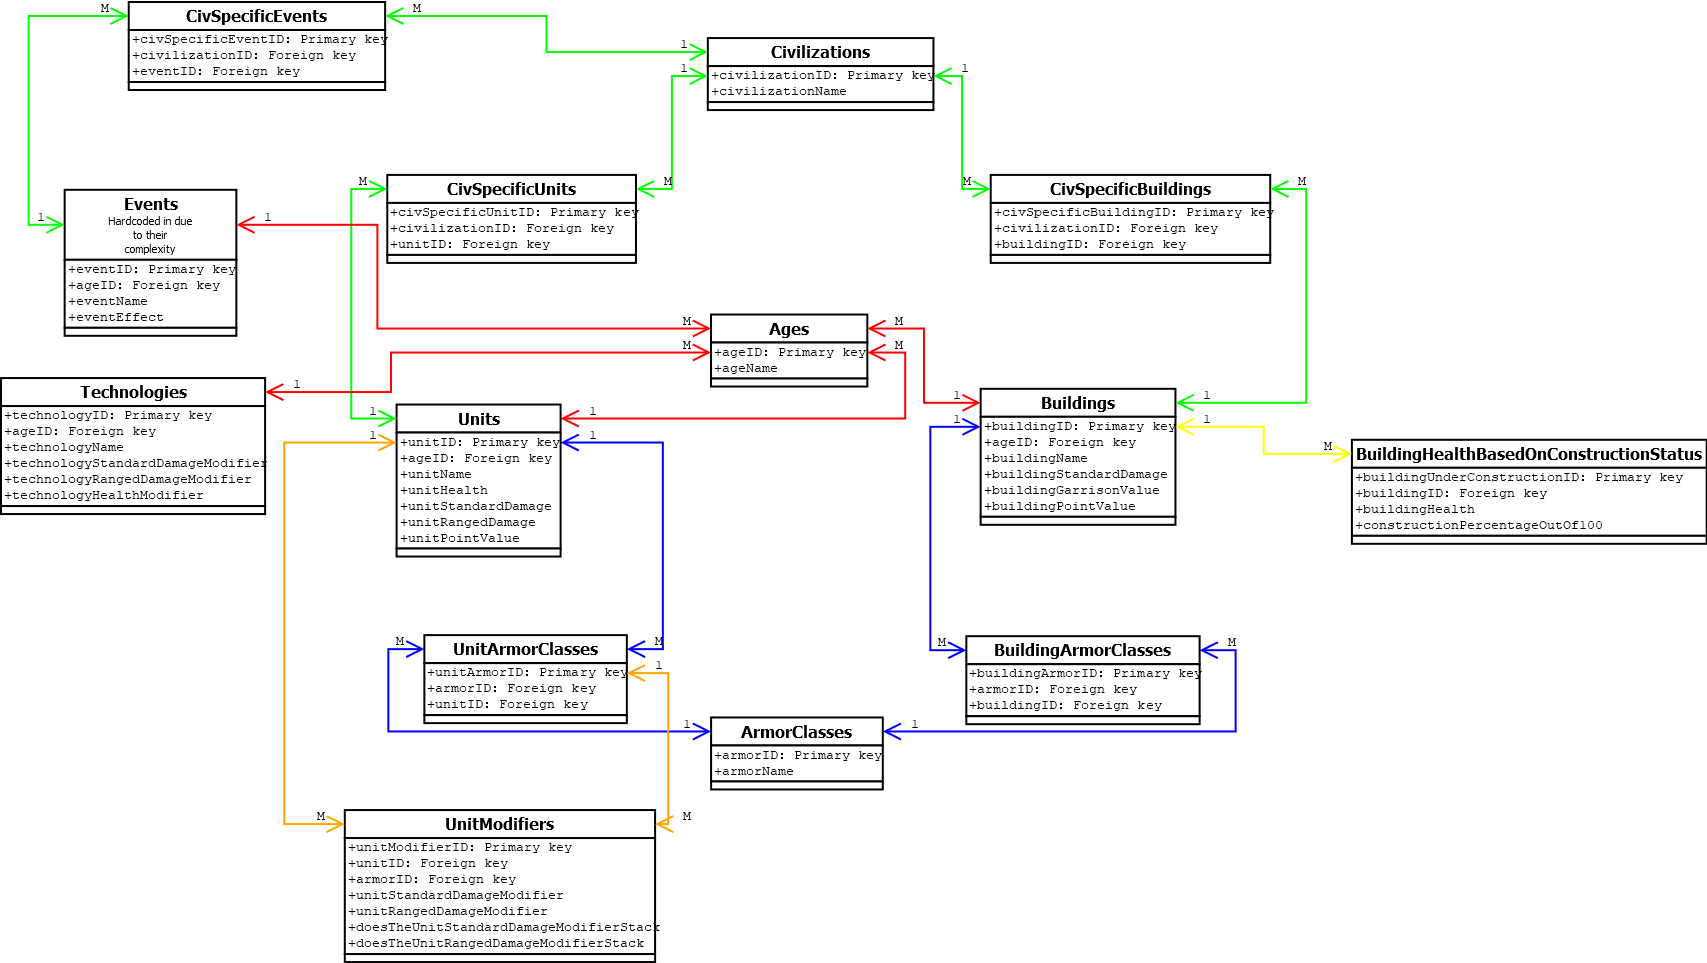
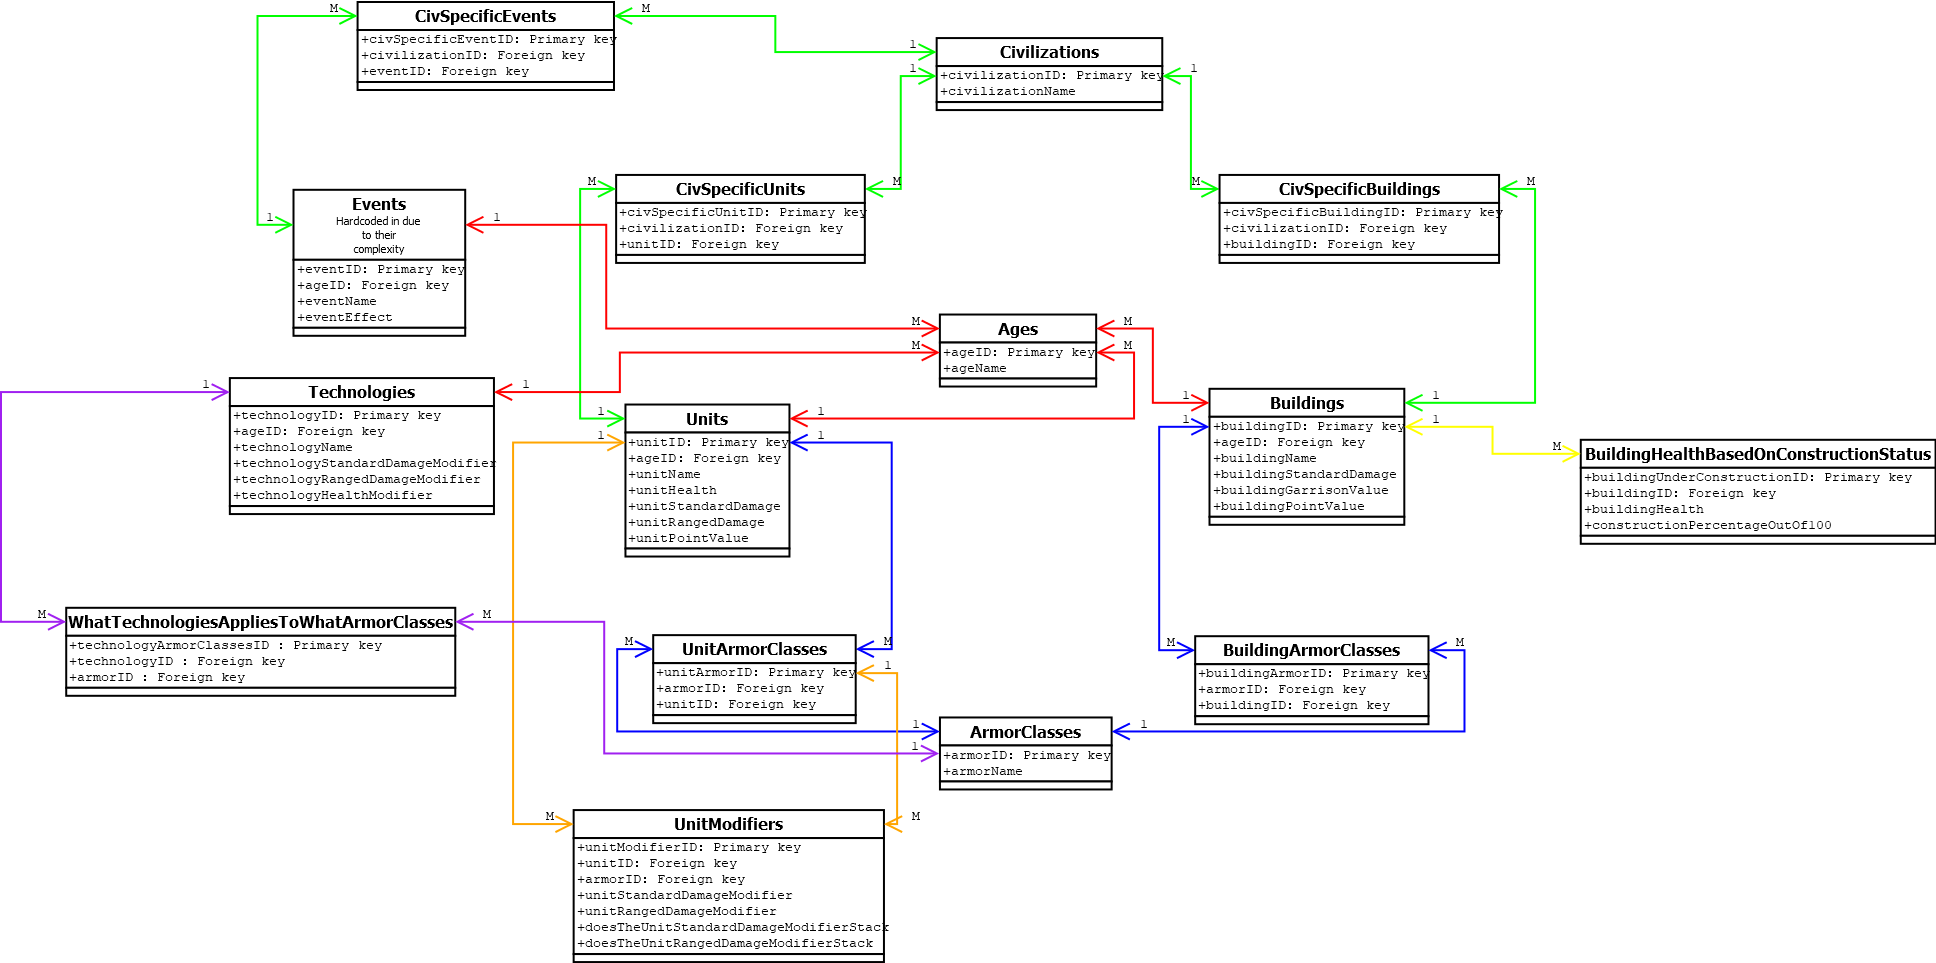
added what we should need to read in the technologies from the db instead of having them hardcoded in

diff --git a/AoE2_Calculator-master/database.cpp b/AoE2_Calculator-master/database.cpp
@@ -411,7 +411,6 @@ Entity Database::getUnitModifiers(
   entityToApplyModifiersToName
     = MainWindow::convertUnderscoresToSpaces(entityToApplyModifiersToName);
   const QString armorClasses{fetchArmorClasses(entityToCheckArmorClassesOf)};
-  qDebug() << "armorClasses:" << armorClasses;
 
   const QString queryText{QString{R"(
 SELECT
@@ -425,7 +424,7 @@ FROM
 WHERE u.unitID = um.unitID AND u.unitName = '%1' AND um.armorID IN %2;)"}
                             .arg(entityToApplyModifiersToName, armorClasses)};
   QSqlQuery     query{queryText};
-  qDebug().noquote() << "query:" << queryText;
+  // qDebug().noquote() << "query:" << queryText;
 
   const int unitStandardDamageModifierIndex{
     query.record().indexOf("unitStandardDamageModifier")};
@@ -435,10 +434,6 @@ WHERE u.unitID = um.unitID AND u.unitName = '%1' AND um.armorID IN %2;)"}
   const int doesRangedStackIndex{query.record().indexOf("r.stacks")};
 
   while (query.next()) {
-    // If it's found and > 0, return the entityToApplyModifiersTo with the
-    // values returned If it's not found or < 0, do not replace the values of
-    // entityToApplyModifiersTo with that
-
     const int unitStandardDamage{
       query.value(unitStandardDamageModifierIndex).toInt()};
     const int unitRangedDamage{
@@ -466,26 +461,74 @@ WHERE u.unitID = um.unitID AND u.unitName = '%1' AND um.armorID IN %2;)"}
   return entityToApplyModifiersTo;
 }
 
-Entity Database::applyTechnologyEffects(Entity entity)
+
+
+static QString fetchTechnologyIDs(int * inputTechnologies)
 {
-  const QString entityName = MainWindow::convertUnderscoresToSpaces(
-    QString::fromStdString(entity.entityName));
-  /*
-    const QString queryText{QString{R"(
-  SELECT
-    u.unitName,
-    um.unitStandardDamageModifier,
-    um.unitRangedDamageModifier,
-    um.doesTheUnitStandardDamageModifierStack AS "s.stacks",
-    um.doesTheUnitRangedDamageModifierStack AS "r.stacks"
-  FROM
-      Units u, UnitModifiers um
-  WHERE u.unitID = um.unitID AND u.unitName = '%1' AND um.armorID IN %2;)"}
-                              .arg(entityToApplyModifiersToName, armorClasses)};
-  QSqlQuery query{queryText};
-*/
-  return entity;
+  QString     technologies{};
+  QTextStream stream{&technologies};
+  stream << '(';
+  bool hasOutputBefore{false};
+
+  for (int i{0}; i < 18 /* num. of technology rows */; ++i) {
+    if (inputTechnologies[i]) {
+      if (hasOutputBefore) {
+        stream << ", '" << (i + 1) << '\'';
+      }
+      else {
+        stream << '\'' << (i + 1) << '\'';
+      }
+
+      hasOutputBefore = true;
+    }
+  }
+
+  stream << ')';
+  return technologies;
 }
+
 
 // Todo: Work out how modifiers might work for technologies
 // Should be similar to what we did for the units
+Entity Database::applyTechnologyEffects(Entity entityToApplyModifiersTo, int * playerTechnologies)
+{
+  const QString technologyIDs{fetchTechnologyIDs(playerTechnologies)};
+
+  const QString armorClasses{fetchArmorClasses(entityToApplyModifiersTo)};
+
+    const QString queryText{QString{R"(
+  SELECT
+    t.technologyStandardDamageModifier,
+    t.technologyRangedDamageModifier,
+    t.technologyHealthModifier
+  FROM
+      Technologies t, WhatTechnologiesAppliesToWhatArmorClasses wtatwac
+  WHERE t.technologyID = wtatwac.technologyID AND t.technologyID IN %1 AND wtatwac.armorID IN %2;)"}
+                              .arg(technologyIDs, armorClasses)};
+
+
+  QSqlQuery query{queryText};
+
+    const int technologyStandardDamageModifierIndex{
+                                              query.record().indexOf("technologyStandardDamageModifier")};
+    const int technologyRangedDamageModifierIndex{
+                                            query.record().indexOf("technologyRangedDamageModifier")};
+    const int technologyHealthModifierIndex{query.record().indexOf("technologyHealthModifier")};
+
+    while (query.next()) {
+    const int technologyStandardDamageModifier{
+                                 query.value(technologyStandardDamageModifierIndex).toInt()};
+    const int technologyRangedDamageModifier{
+                               query.value(technologyRangedDamageModifierIndex).toInt()};
+    const int technologyHealthModifier{
+                                 query.value(technologyHealthModifierIndex).toInt()};
+
+    entityToApplyModifiersTo.standardDamage += technologyStandardDamageModifier;
+    entityToApplyModifiersTo.rangedDamage += technologyRangedDamageModifier;
+    entityToApplyModifiersTo.rangedDamage += technologyHealthModifier;
+
+    }
+
+  return entityToApplyModifiersTo;
+}
+

diff --git a/AoE2_Calculator-master/database.hpp b/AoE2_Calculator-master/database.hpp
@@ -33,7 +33,7 @@ public:
     Entity entityToApplyModifiersTo,
     Entity entityToCheckArmorClassesOf);
 
-  Entity applyTechnologyEffects(Entity entity);
+  Entity applyTechnologyEffects(Entity entity, int * playerTechnologies);
 
 private:
   QSqlDatabase m_database;

diff --git a/AoE2_Calculator-master/backend/entity.h b/AoE2_Calculator-master/backend/entity.h
@@ -44,6 +44,7 @@ struct Entity {
   armorClass[24] -> town_center
   armorClass[25] -> land_unit
   armorClass[26] -> longboat
+  armorClass[27] -> villager
   */
   bool onlyAttacksInTheSecondRoundOfStandardCombat;
   bool onlyAttacksOnce;
